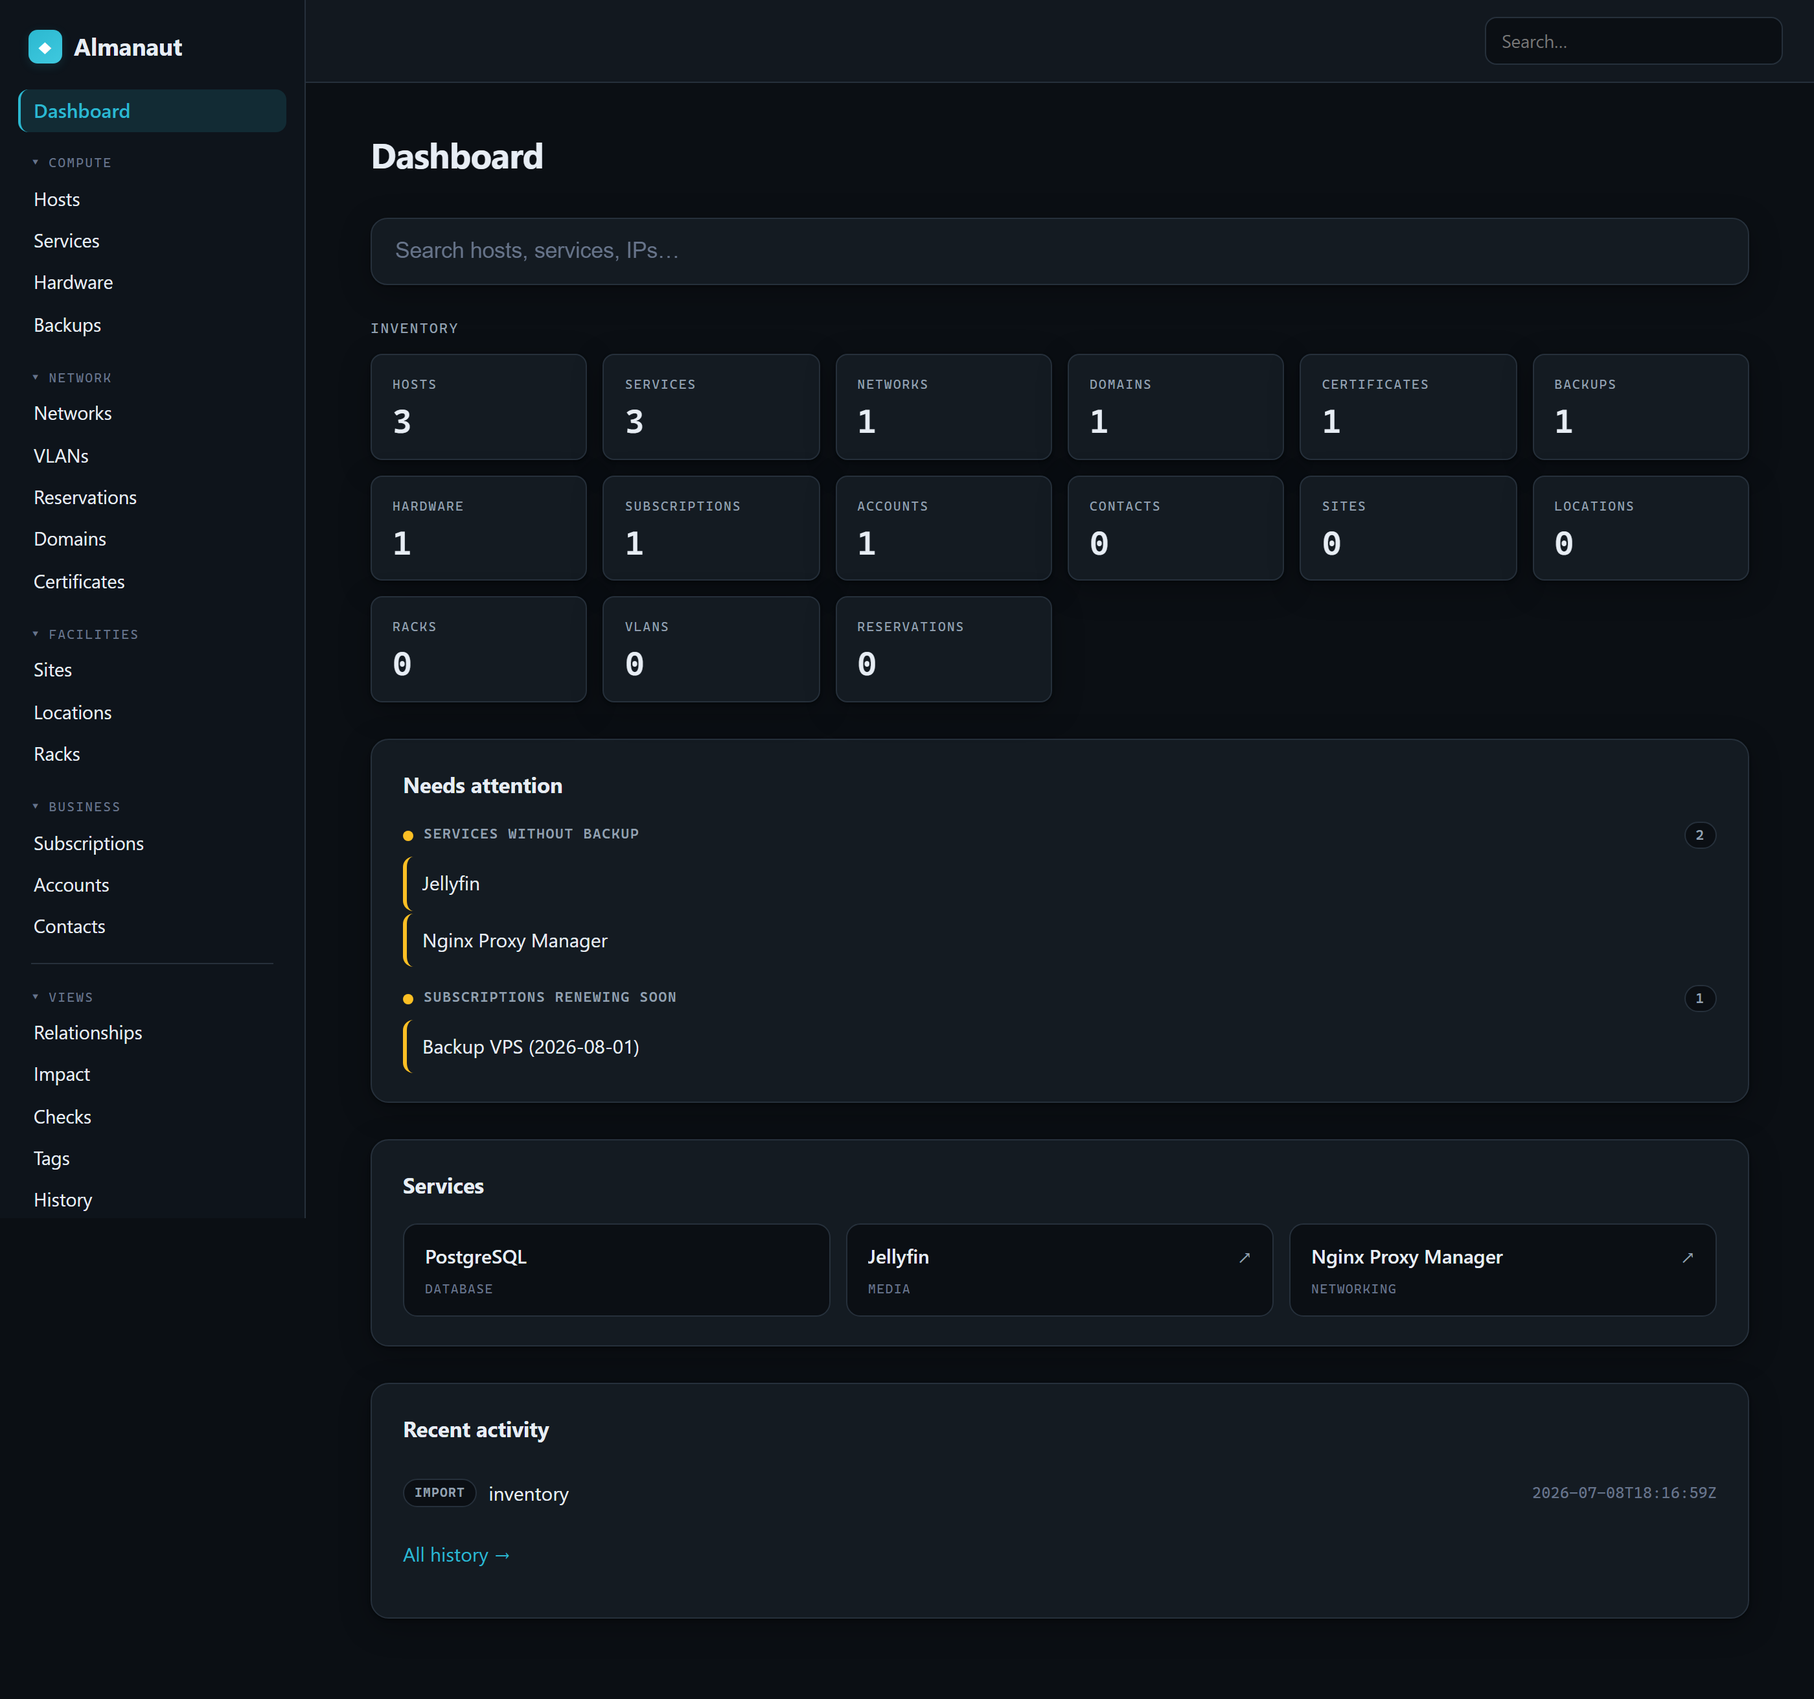
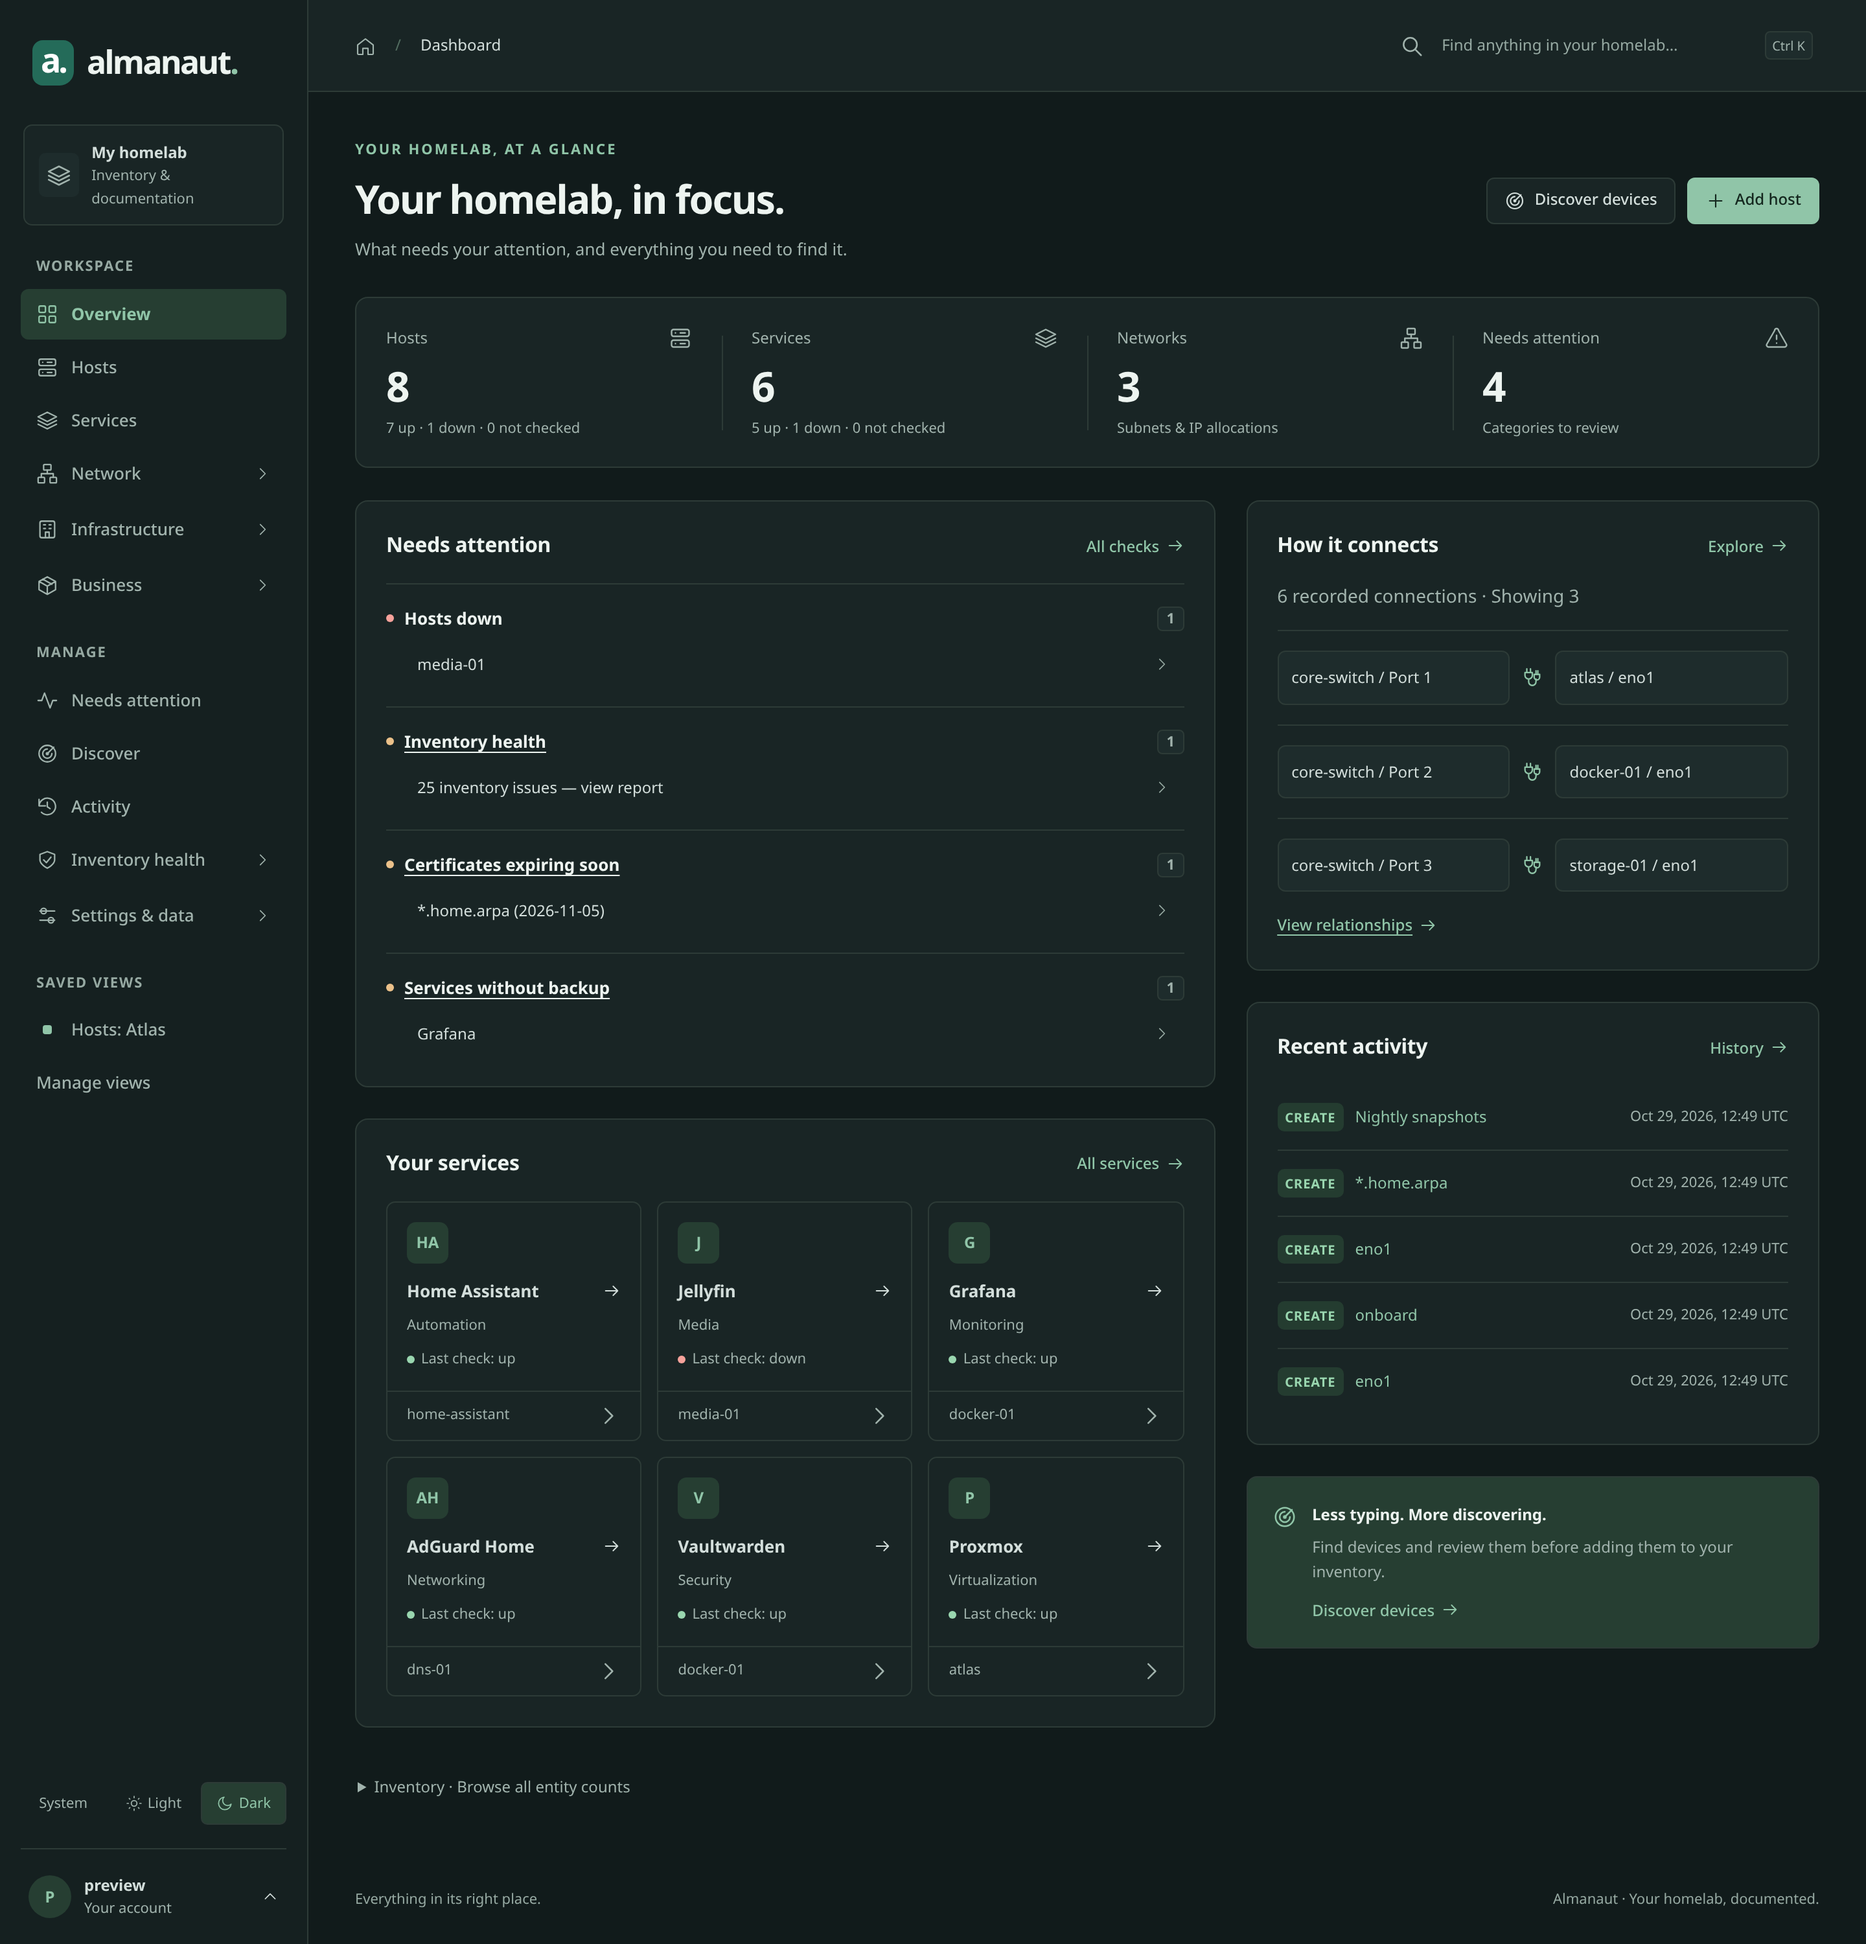
docs: refresh README screenshots for the new UI

diff --git a/README.md b/README.md
@@ -11,7 +11,7 @@
 
 One Go binary · SQLite storage · server-rendered UI · zero client-side JS frameworks
 
-![almanaut dashboard](docs/screenshots/dashboard.png)
+![Almanaut overview with inventory counts, health alerts, services, and port connections](docs/screenshots/dashboard.png)
 
 </div>
 
@@ -86,14 +86,17 @@ server-rendered UI. Back it up by copying one file (or one YAML export).
 
 ## Screenshots
 
-**Relationship graph** — each entity's neighbourhood is drawn on its detail
-page (here, a host with the VM it runs on and the services running on it):
+Screenshots show the application with a demo inventory.
 
-![relationship neighbourhood graph](docs/screenshots/graph.png)
+**Connections** — the record's Connections tab brings physical ports,
+relationships, and a neighbourhood graph together (here, a host with its
+Proxmox service and nightly backup):
+
+![Host Connections tab showing a linked switch port, a service, and a backup](docs/screenshots/graph.png)
 
 **Dark mode** — a built-in System / Light / Dark switch; System follows your OS:
 
-![almanaut in dark mode](docs/screenshots/dashboard-dark.png)
+![Almanaut overview in dark mode](docs/screenshots/dashboard-dark.png)
 
 ## Quick start
 
